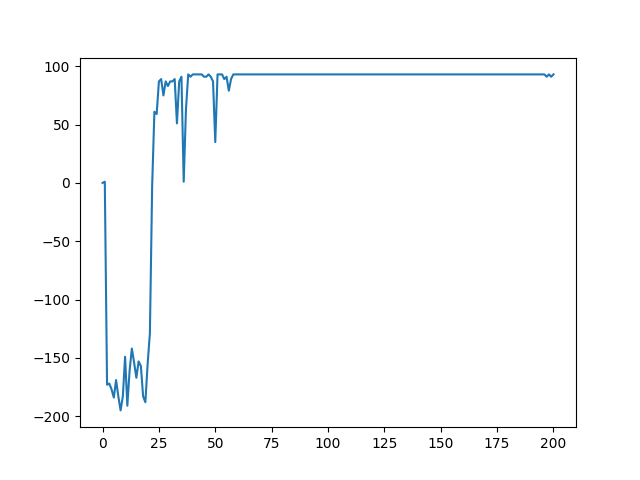
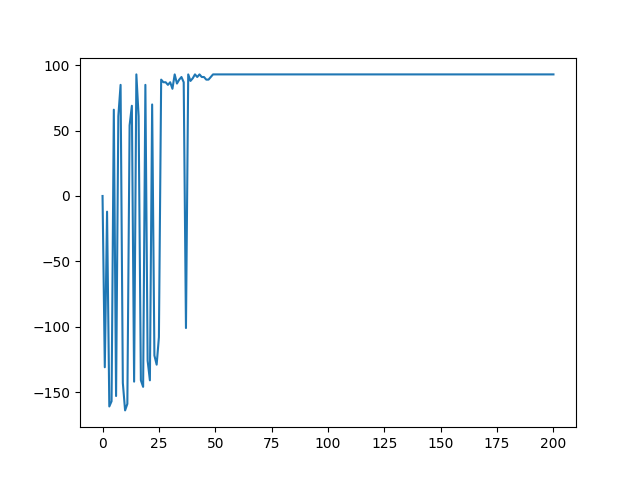
Signed-off-by: GarrentDSTRC <garrentwang@zju.edu.cn>

diff --git a/agent/agent_PG.py b/agent/agent_PG.py
@@ -21,9 +21,9 @@ class PolicyNet(nn.Module):
 
 class PolicyGradient():
     def __init__(self,n_states_num,n_actions_num,learning_rate=0.01,reward_decay=0.8 ):
-        #状态数   state是一个16维向量，分别是位置，速度，杆子的角度，加速度
+        #状态数   state是一个16维向量，
         self.n_states_num = n_states_num
-        #action是4维、离散，即上下左右
+        #action是5维、离散，即上下左右
         self.n_actions_num = n_actions_num
         #学习率
         self.lr = learning_rate
@@ -80,9 +80,9 @@ class agent_PG():
 
     def __init__(self):
         self.states = list(range(16))  # 状态空间 0-15
-        self.actions = [-4, 4, -1, 1]  # 上下左右
+        self.actions = [-4, 4, -1, 1,0]  # 上下左右
 
-        self.size = 4
+        self.size = 5
 
         self.gamma = 0.8  # 折扣因子
 

diff --git a/environment/grid_env_nn.py b/environment/grid_env_nn.py
@@ -21,7 +21,7 @@ class GridEnv1_nn(gym.Env):
         self.terminate_states = np.zeros(len(self.states))  # 终止状态为np格式
         self.terminate_states[4] = 1
 
-        self.actions = [-4, 4, -1, 1]  #上下左右
+        self.actions = [-4, 4, -1, 1, 0]  #上下左右不动
 
 
         self.size = 4

diff --git a/main_PG.py b/main_PG.py
@@ -48,11 +48,11 @@ for i in range(num_episodes):
 
     allrewards=np.append(allrewards,e_return)
 
-torch.save(agent.PG.pi,"PG.pt")
+torch.save(agent.PG.pi,path)
 
 env.close()
 x=np.asarray(range(len(allrewards)))
 fig=plt.plot(x,allrewards)
-plt.savefig(path)
+plt.savefig("PG.png")
 plt.show()
 sys.exit()
